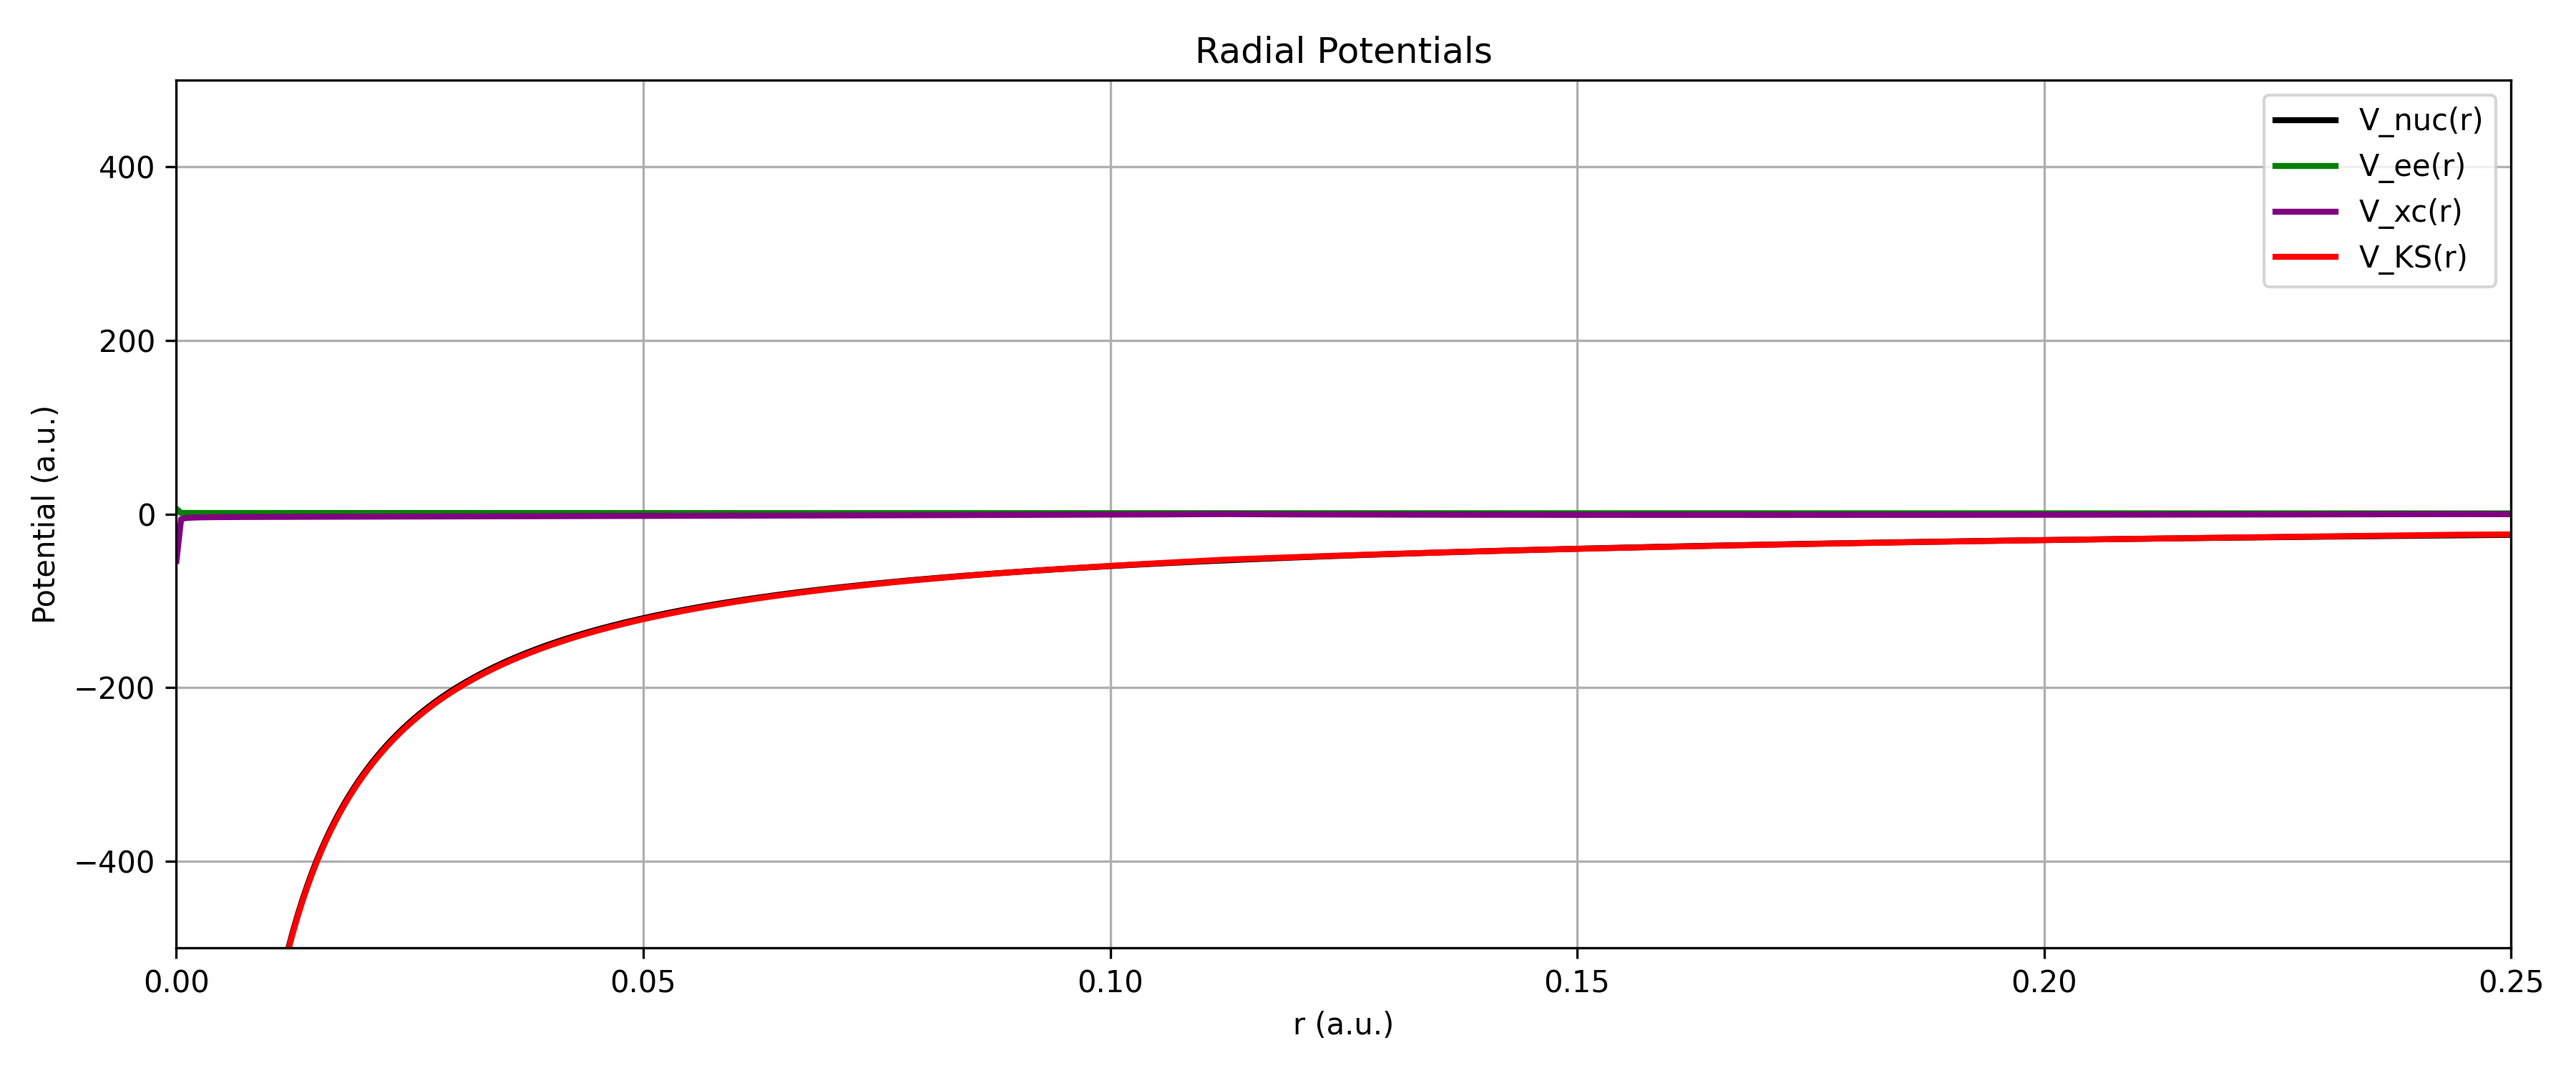
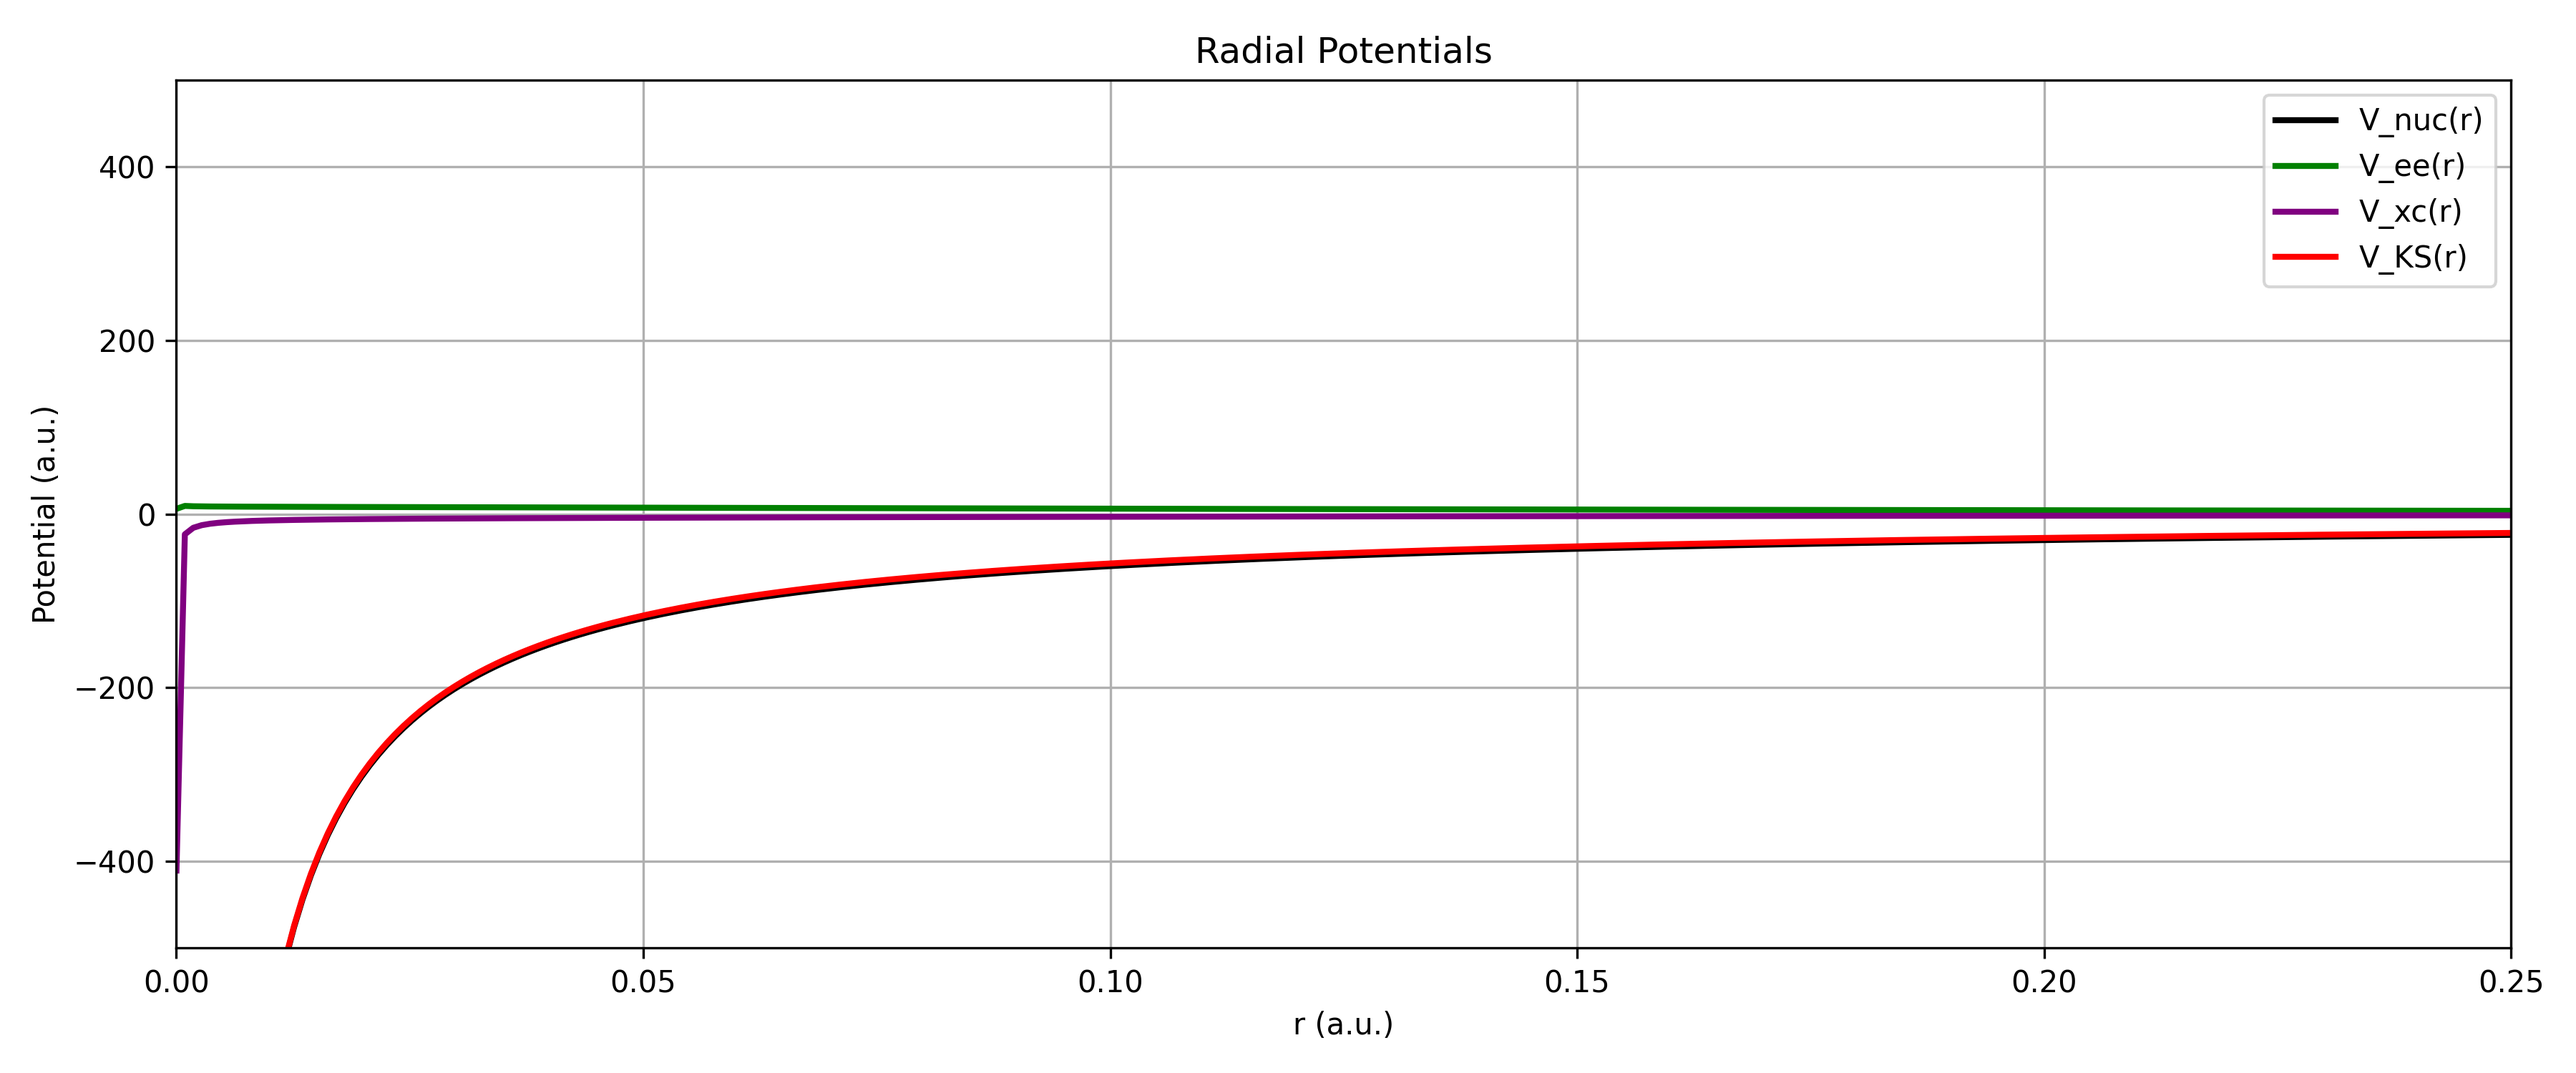
Update maximum radius parameter in DFT.py and main.py to improve calculations

diff --git a/density-functional-theory/DFT.py b/density-functional-theory/DFT.py
@@ -302,7 +302,7 @@ if __name__ == "__main__":
     # Parameters
     Z = 6  # Nuclear charge for Hydrogen-like atom
     r0 = 1e-5  # Minimum radius
-    rf = 5.0  # Maximum radius
+    rf = 9.0  # Maximum radius
     N = 10000  # Number of mesh points
 
     alpha = 0.1  # Mixing parameter for SCF

diff --git a/density-functional-theory/main.py b/density-functional-theory/main.py
@@ -145,7 +145,7 @@ if __name__ == "__main__":
     # Parameters
     Z = 6  # Nuclear charge for Hydrogen-like atom
     r0 = 1e-5  # Minimum radius
-    rf = 5.0  # Maximum radius
+    rf = 9.0  # Maximum radius
     N = 10000  # Number of mesh points
 
     alpha = 0.1  # Mixing parameter for SCF
